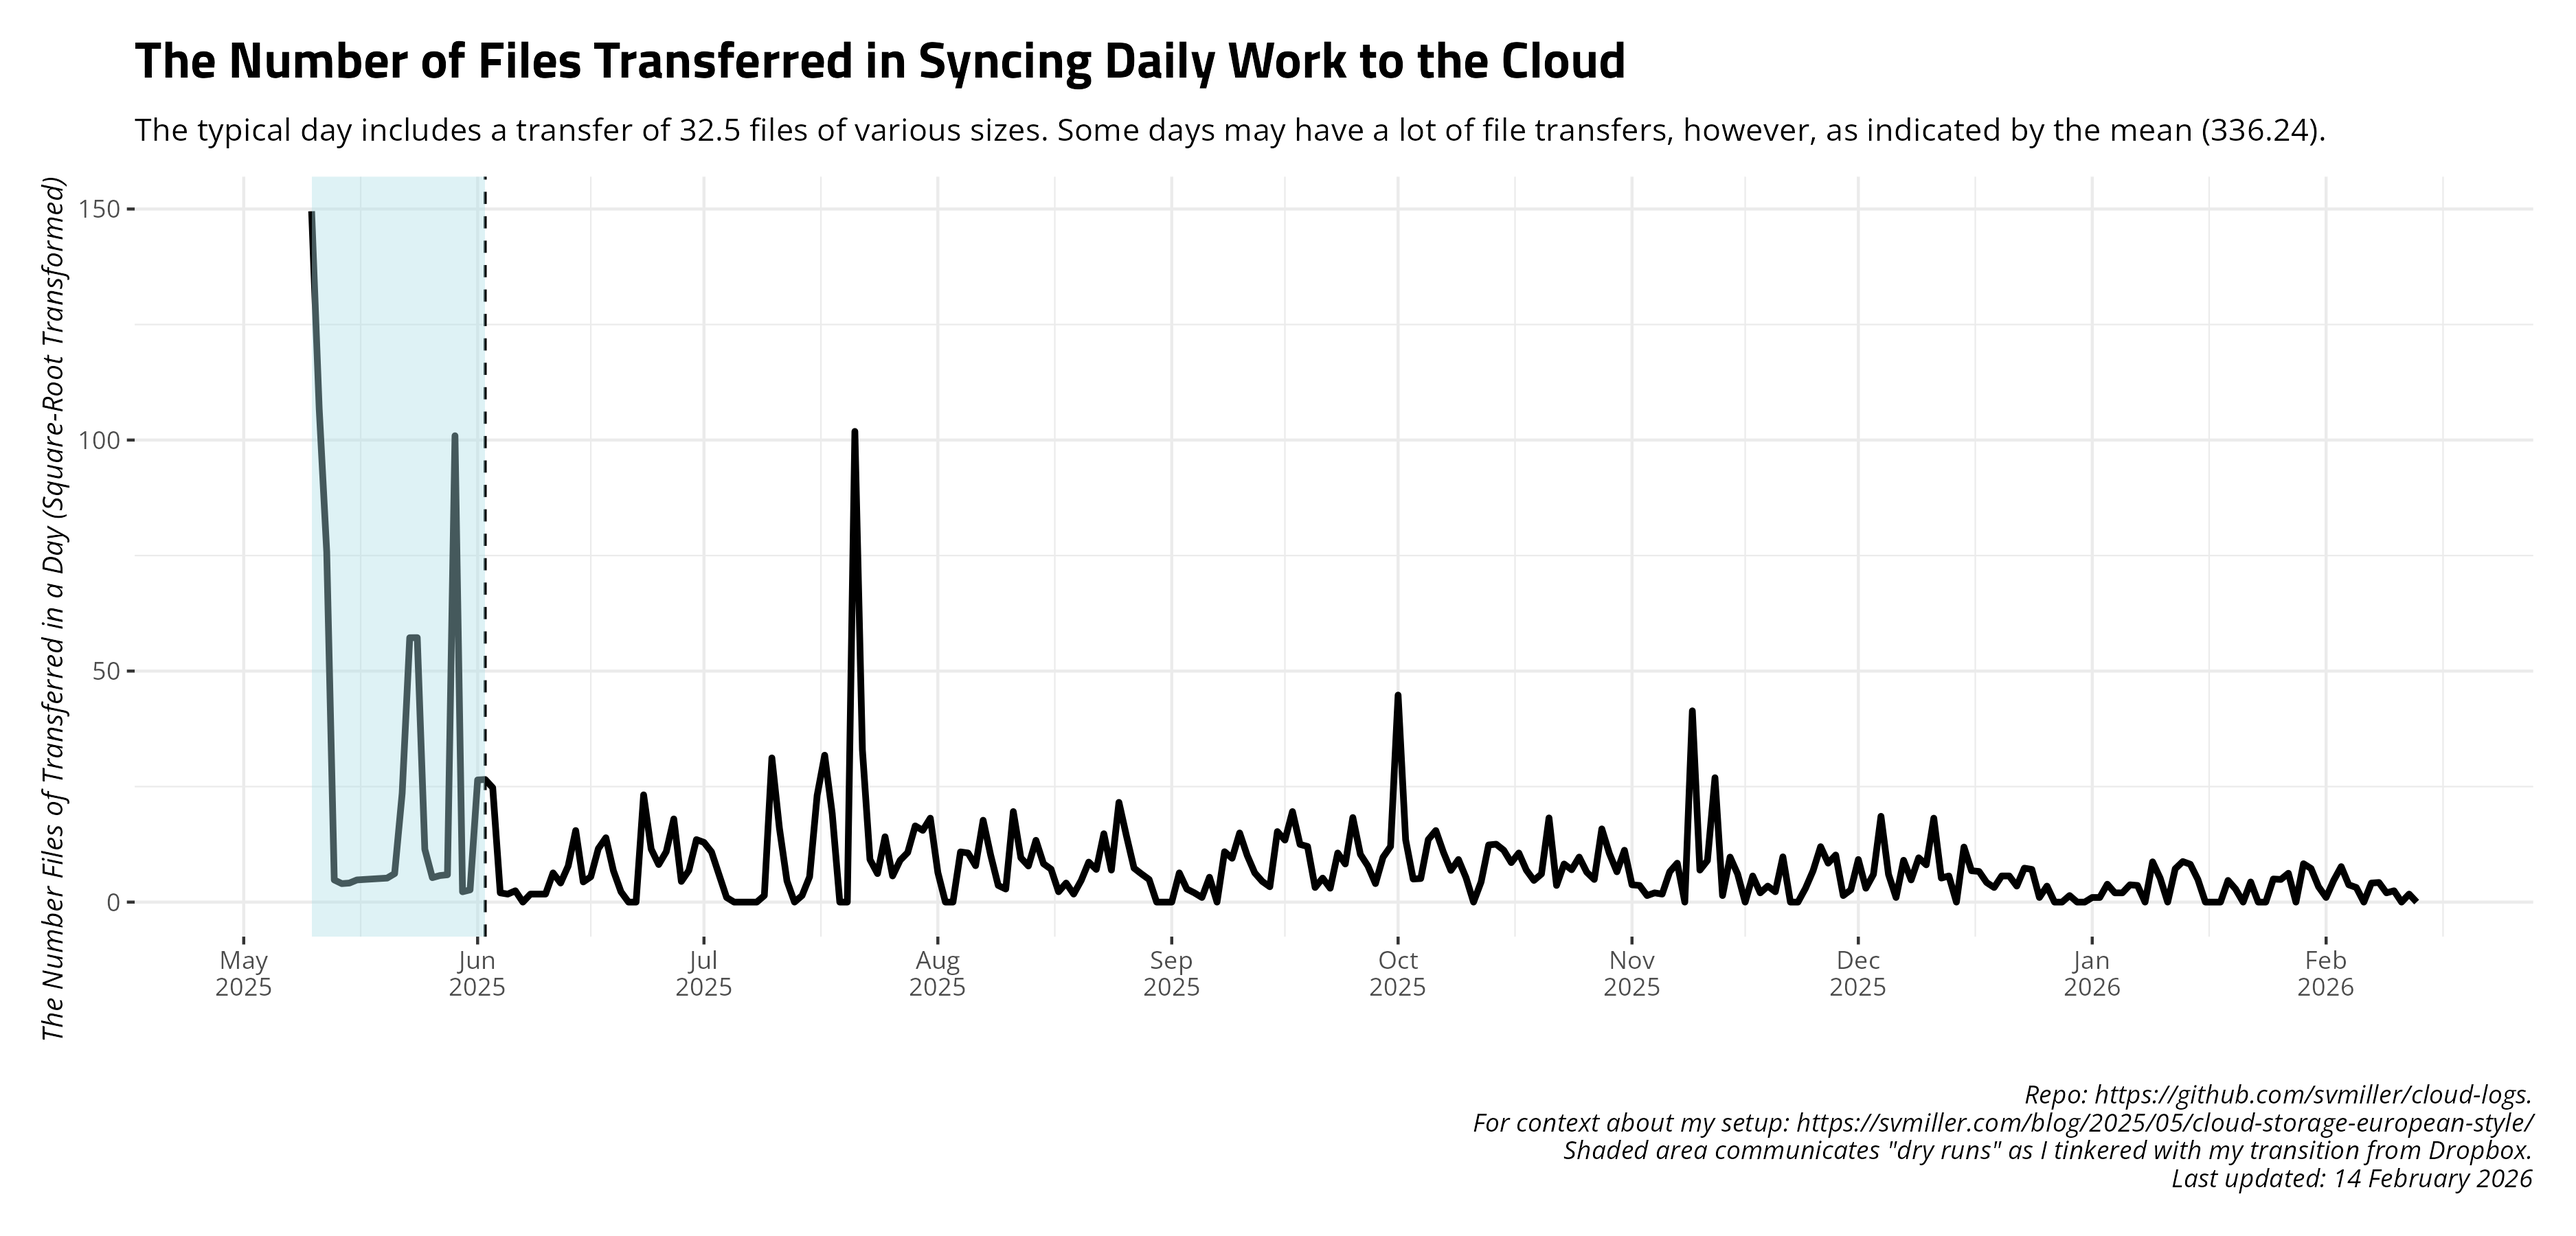
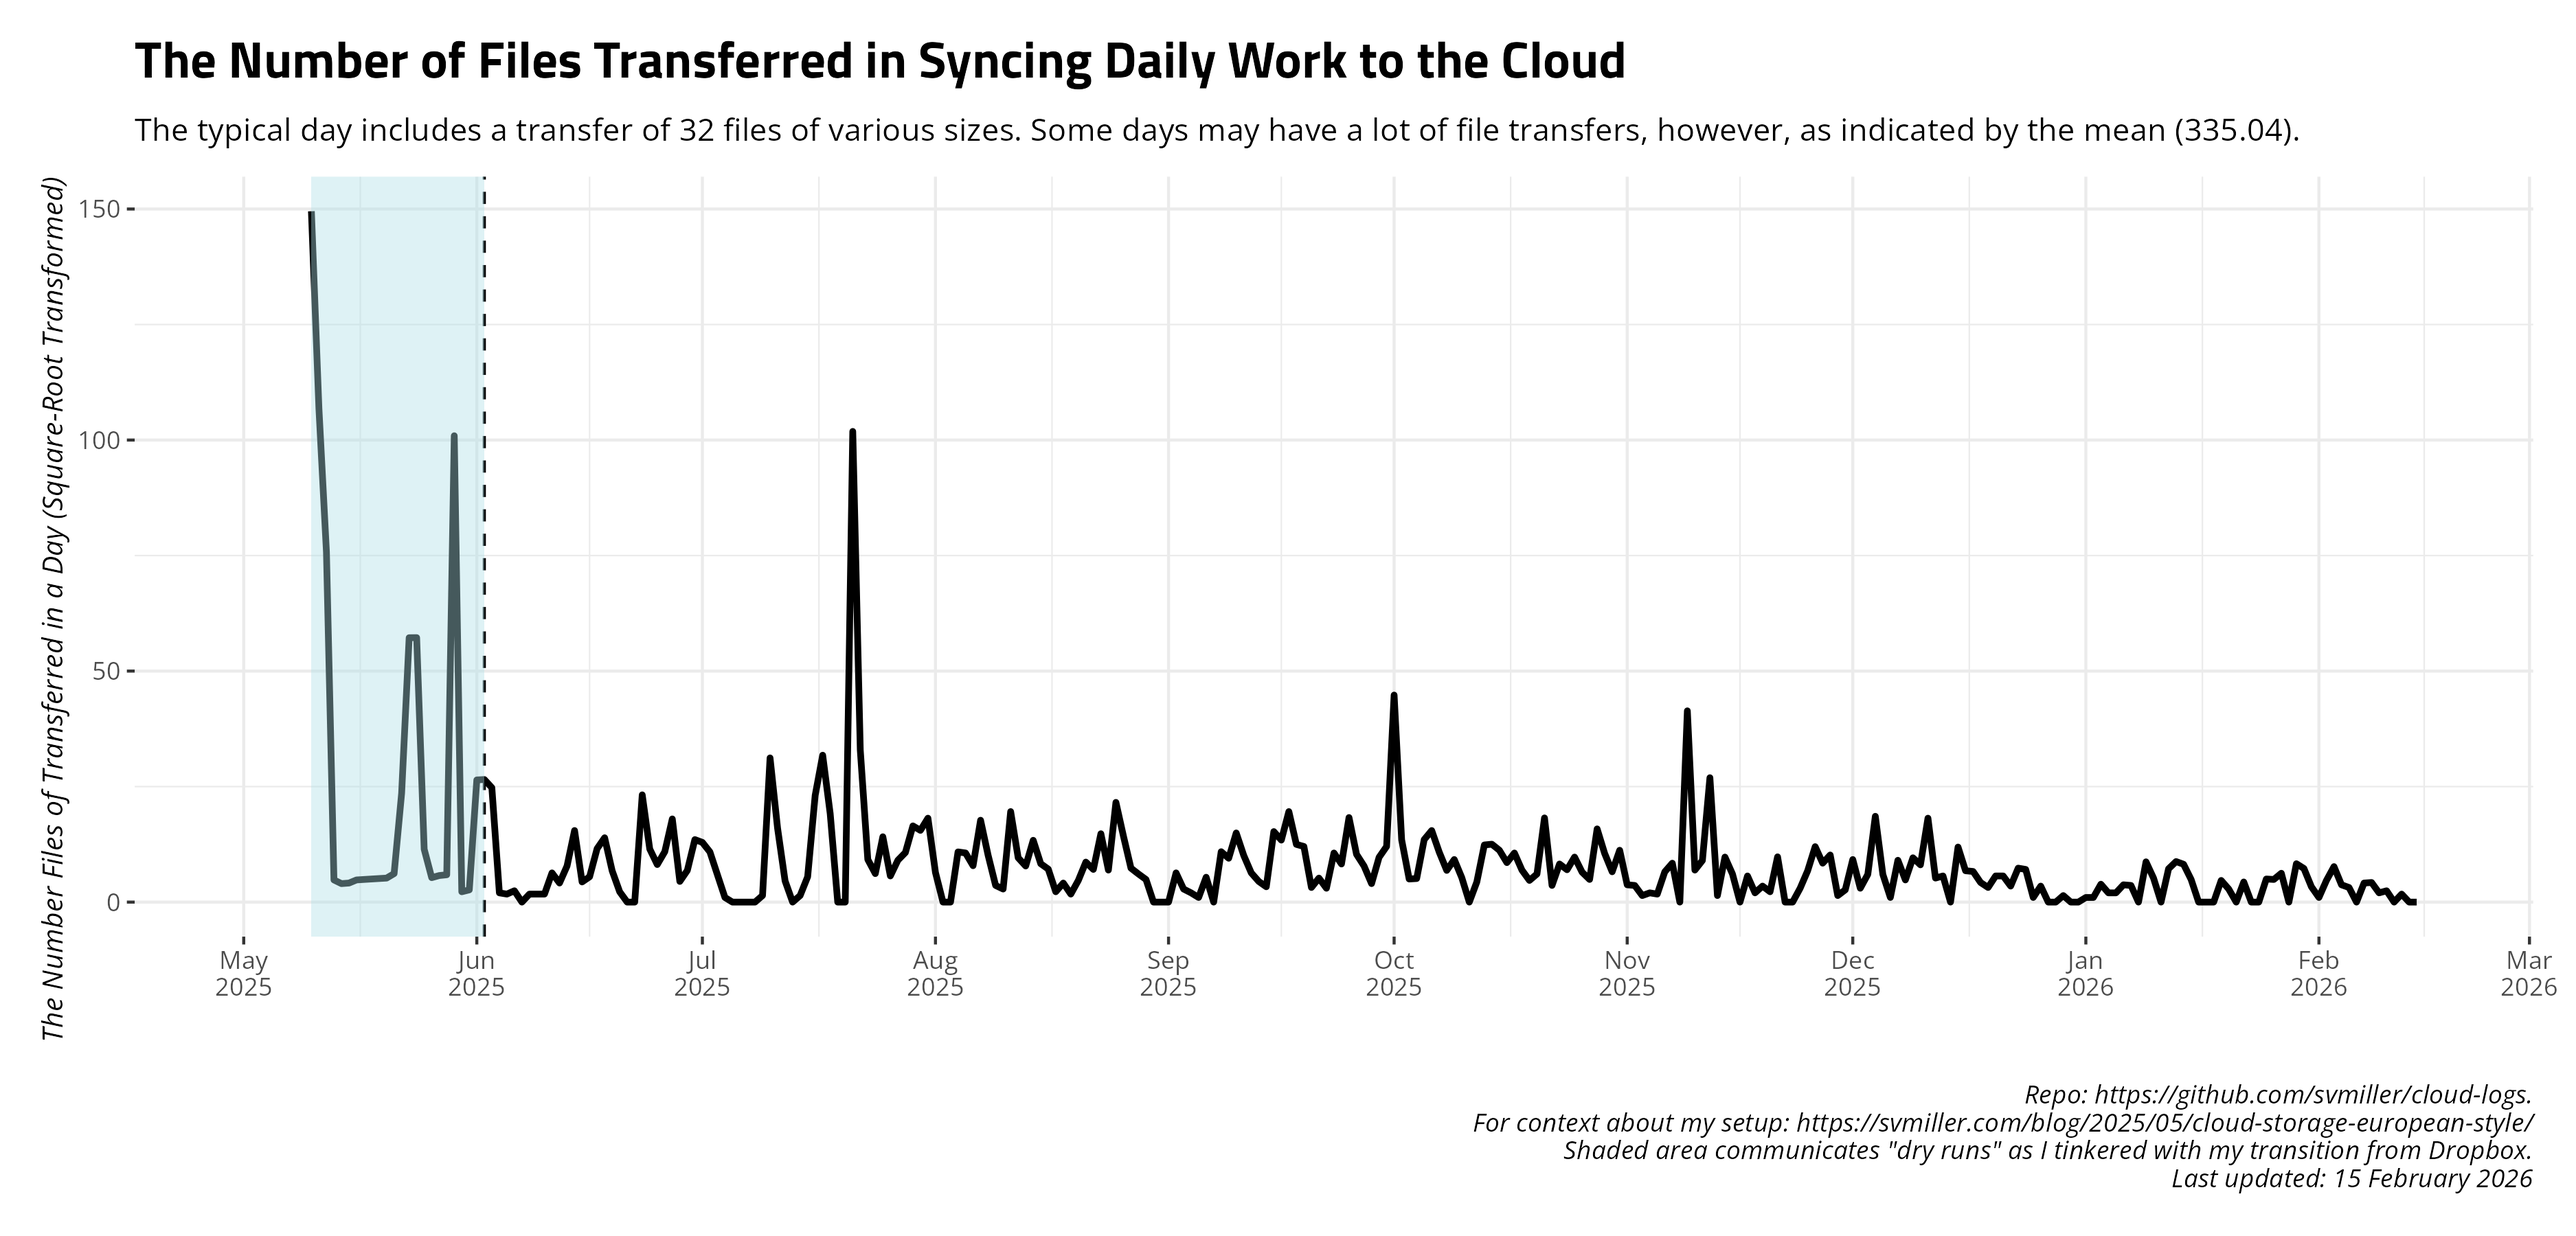
Date: 2026-02-15 09:00:22. Hi mom!

diff --git a/README.md b/README.md
@@ -27,17 +27,17 @@ and uploads to Github.
     #> # A tibble: 14 × 4
     #>    date       ftransfer stransfer   elapsed
     #>    <date>         <dbl> <chr>       <chr>  
-    #>  1 2026-01-31        11 107.900 KiB 5m34.8s
-    #>  2 2026-02-01         1 52.319 KiB  6m32.1s
-    #>  3 2026-02-02        22 2.544 MiB   5m52.9s
-    #>  4 2026-02-03        59 670.650 KiB 6m3.7s 
-    #>  5 2026-02-04        14 2.131 MiB   4m36.0s
-    #>  6 2026-02-05        10 255.844 KiB 4m19.8s
-    #>  7 2026-02-06         0 <NA>        5m45.5s
-    #>  8 2026-02-07        17 378.836 KiB 4m31.8s
-    #>  9 2026-02-08        18 2.016 MiB   4m5.3s 
-    #> 10 2026-02-09         4 128.871 KiB 4m40.1s
-    #> 11 2026-02-10         6 7.213 MiB   5m45.6s
-    #> 12 2026-02-11         0 <NA>        4m28.5s
-    #> 13 2026-02-12         3 38.536 KiB  4m23.0s
-    #> 14 2026-02-13         0 <NA>        5m18.8s
+    #>  1 2026-02-01         1 52.319 KiB  6m32.1s
+    #>  2 2026-02-02        22 2.544 MiB   5m52.9s
+    #>  3 2026-02-03        59 670.650 KiB 6m3.7s 
+    #>  4 2026-02-04        14 2.131 MiB   4m36.0s
+    #>  5 2026-02-05        10 255.844 KiB 4m19.8s
+    #>  6 2026-02-06         0 <NA>        5m45.5s
+    #>  7 2026-02-07        17 378.836 KiB 4m31.8s
+    #>  8 2026-02-08        18 2.016 MiB   4m5.3s 
+    #>  9 2026-02-09         4 128.871 KiB 4m40.1s
+    #> 10 2026-02-10         6 7.213 MiB   5m45.6s
+    #> 11 2026-02-11         0 <NA>        4m28.5s
+    #> 12 2026-02-12         3 38.536 KiB  4m23.0s
+    #> 13 2026-02-13         0 <NA>        5m18.8s
+    #> 14 2026-02-14         0 <NA>        4m11.9s
